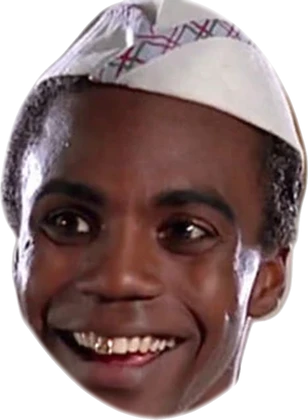
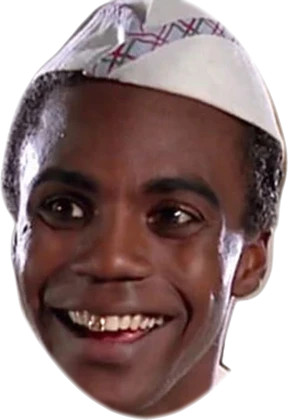
v3.70 : Goldie Wilson, menton entier
Claude-Session: https://claude.ai/code/session_01WYc8bcxVUTnPR8YQxCHawi

diff --git a/public/index.html b/public/index.html
@@ -2811,6 +2811,7 @@
 
   /* ===== Version de l'appli et nouveautés (la plus récente en premier) ===== */
   const VERSIONS = [
+    ["3.70", "12 octobre 2026", ["Hill Valley : la tête de Goldie Wilson recadrée, le menton entier"]],
     ["3.69", "12 octobre 2026", ["Hill Valley : Lou retrouve sa tête naturelle (sans cheveux blancs ni calot)"]],
     ["3.68", "12 octobre 2026", ["Rebecca : une croix rouge médicale sur la poitrine de son gilet, et un bandeau rouge autour du front"]],
     ["3.67", "12 octobre 2026", ["Hill Valley : nouvelles têtes pour Lou (cheveux blancs, calot en papier) et Goldie Wilson"]],

diff --git a/public/sw.js b/public/sw.js
@@ -1,7 +1,7 @@
 // Service worker : permet d'installer l'appli (Android, iPhone, PC) et de l'ouvrir sans réseau.
 // Les pages sont servies « réseau d'abord » (toujours la dernière version), les images « cache d'abord ».
 // Le courrier et le registre (/api/) ne sont jamais mis en cache.
-const CACHE = "caserne-nf-v188";
+const CACHE = "caserne-nf-v189";
 const SHELL = ["/", "/images/garde.jpg", "/images/pierre.jpg", "/images/escaliers/brique.jpg", "/manifest.webmanifest", "/icons/icon-192.png"];
 
 self.addEventListener("install", e => {
